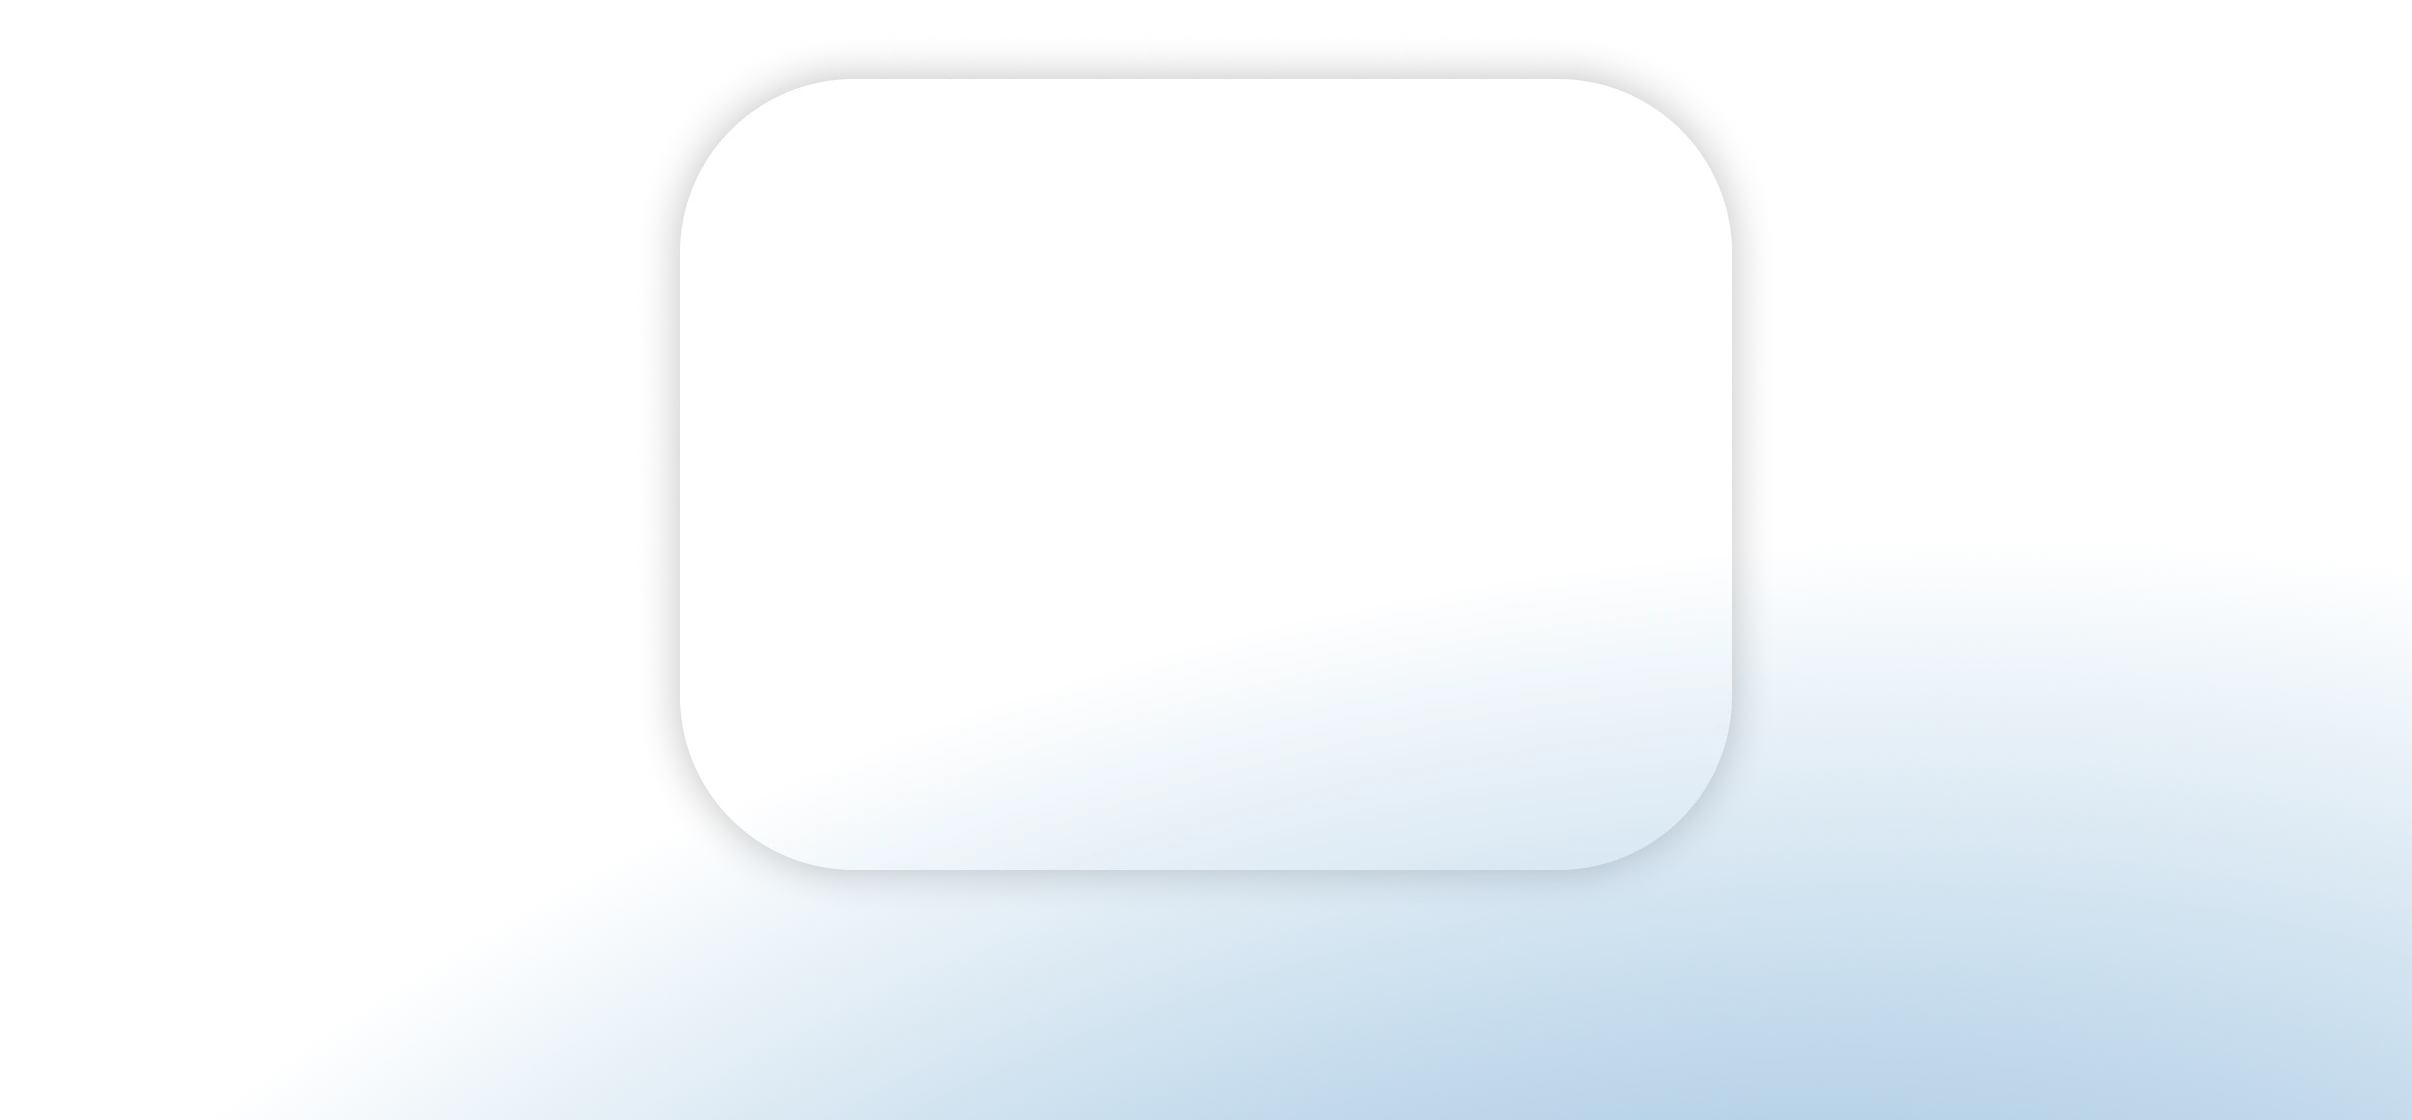
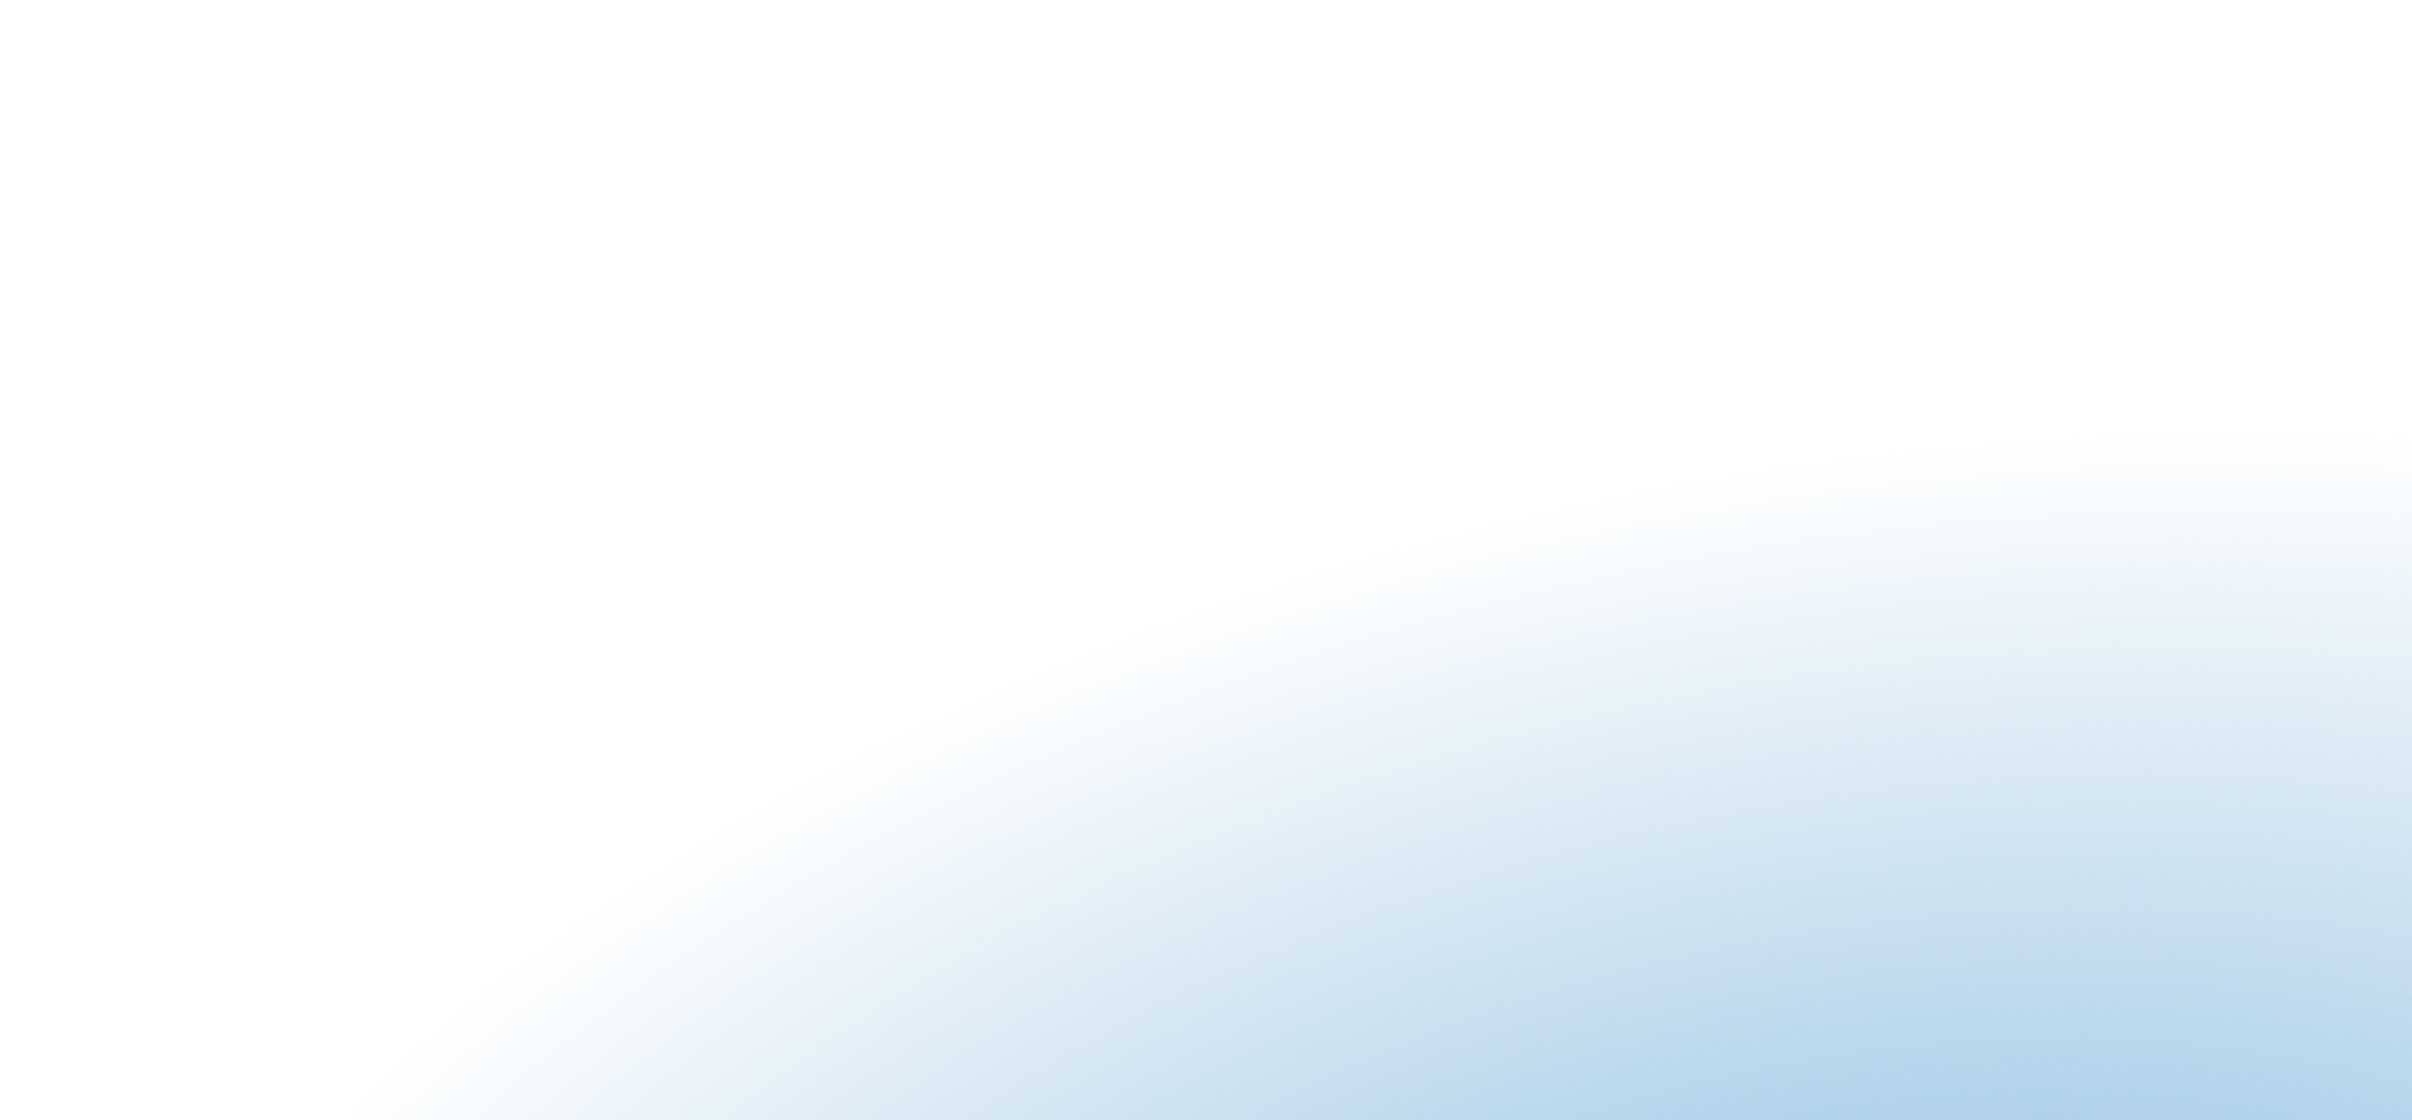
changed the theme, responsive opacy for images to make affordable to the view

Changed region(s): [[0.3109, 0.0625, 0.6841, 0.0938], [0.3109, 0.75, 0.4664, 0.7812], [0.2799, 0.7188, 0.3109, 0.75]]

diff --git a/src/App.jsx b/src/App.jsx
@@ -57,7 +57,6 @@ import IFimg_DEEB from "./Assets/IFimg_DEEB.webp"
 import IFimg_EM from "./Assets/IFimg_EM.webp"
 import IFimg_CC from "./Assets/IFimg_CC.webp"
 import IFimg_GGC from "./Assets/IFimg_GGC.webp"
-import IFimg_CAL from "./Assets/IFimg_CAL.webp"
 import IFimg_BBUI from "./Assets/IFimg_BBUI.webp"
 
 import IBimg_LP from "./Assets/IBimg_LP.webp"
@@ -71,7 +70,6 @@ import IBimg_DEEB from "./Assets/IBimg_DEEB.webp"
 import IBimg_CC from "./Assets/IBimg_CC.webp"
 import IBimg_EM from "./Assets/IBimg_EM.webp"
 import IBimg_GGC from "./Assets/IBimg_GGC.webp"
-import IBimg_CAL from "./Assets/IBimg_CAL.webp"
 
 import ThemeSwitch from "./Components/ThemeSwitch"
 import LanguageSwitch from "./Components/LanguageSwitch"
@@ -114,8 +112,8 @@ function App() {
       //-------------------------------------------------------------------------
       Projects_TAh1: "Projects 💻",
       Projects_01_Th4: "Programming:",
-      Projects_BBUI_Tp: "I'm using this interface created by my for all my projects.",
-      Projects_GGC_Tp: "Created with: JavaScript.",
+      Projects_BBUI_Tp: "I created this interface for use in my projects to organize information and elements into modular blocks. This intuitive and visually appealing design improves navigation and accessibility, allowing users to easily find information. My goal is to optimize web usability and aesthetics.",
+      Projects_GGC_Tp: "Guess countries <br> in this game.",
       Projects_EM_Tp: "Restaurant in <br> Wellington, NZ.",
       Projects_CC_Tp: "Created with: <br> Bento Box UI.",
 
@@ -200,8 +198,8 @@ function App() {
       //-------------------------------------------------------------------------
       Projects_TAh1: "Proyectos 💻",
       Projects_01_Th4: "Programación:",
-      Projects_BBUI_Tp: "Estoy usando esta interfaz creada por mi para todos mis proyectos.",
-      Projects_GGC_Tp: "Creado con: JavaScript.",
+      Projects_BBUI_Tp: "Creé esta interfaz para usar en mis proyectos para organizar información y elementos en bloques modulares. Este diseño intuitivo y visualmente atractivo mejora la navegación y la accesibilidad, permitiendo a los usuarios encontrar información fácilmente. Mi objetivo es optimizar la usabilidad y la estética web.",
+      Projects_GGC_Tp: "Adivina países <br> en este juego.",
       Projects_EM_Tp: "Restaurante en <br> Wellington, NZ.",
       Projects_CC_Tp: "Creado con: <br> Bento Box UI.",
 
@@ -288,11 +286,10 @@ function App() {
 
       <BentoGrid id="Projects" TAh1={lang[language].Projects_TAh1}>
       <Bento Bv="1" Bh="8" Bs="BE1" Th4={lang[language].Projects_01_Th4} Bbgc="transparent"/>
-      <Bento Bv="4" Bh="4" Bs="BL4" Th4="Bento Box UI" Limg={Limg_BBUI} IBimg={IBimg_BBUI} IFimg={IFimg_BBUI} Tp={lang[language].Projects_BBUI_Tp} Com={Button} Bt={lang[language].Visit}  Lurl="https://bentoboxui.vercel.app" />
-      <Bento Bv="2" Bh="4" Bs="BR1" Th4="Geo Game Challenge" Limg={Limg_GGC} IBimg={IBimg_GGC} IFimg={IFimg_GGC} Tp={lang[language].Projects_GGC_Tp} Com={Button} Bt={lang[language].Play} Lurl="https://geogamechallenge.netlify.app/"/>
+      <Bento Bv="4" Bh="4" Bs="BL1" Th4="Bento Box UI" Limg={Limg_BBUI} IBimg={IBimg_BBUI} IFimg={IFimg_BBUI} Tp={lang[language].Projects_BBUI_Tp} Com={Button} Bt={lang[language].Visit}  Lurl="https://bentoboxui.vercel.app" />
+      <Bento Bv="2" Bh="4" Bs="BR1" Th4="Geo Game" Limg={Limg_GGC} IBimg={IBimg_GGC} IFimg={IFimg_GGC} Tp={lang[language].Projects_GGC_Tp} Com={Button} Bt={lang[language].Play} Lurl="https://geogamechallenge.netlify.app/"/>
       <Bento Bv="2" Bh="4" Bs="BR1" Th4="Café Café" Limg={Limg_CC} IBimg={IBimg_CC} IFimg={IFimg_CC} Tp={lang[language].Projects_CC_Tp} Com={Button} Bt={lang[language].Visit} Lurl="https://cafe-cafe.vercel.app"/>
       <Bento Bv="2" Bh="4" Bs="BL1" Th4="El Matador" Limg={Limg_EM} IBimg={IBimg_EM} IFimg={IFimg_EM} Tp={lang[language].Projects_EM_Tp} Com={Button} Bt={lang[language].Visit} Lurl="https://el-matador-website.netlify.app/"/>
-      <Bento Bv="2" Bh="2" Bs="BL1" Th4="Calculator" IFimg={IFimg_CAL} IBimg={IBimg_CAL} Com={Button} Bt={lang[language].Try} Lurl="https://dark--atlanticocalculator.netlify.app/"/>
 
       <Bento Bv="1" Bh="8" Bs="BE1" Th4={lang[language].Projects_02_Th4} Bbgc="transparent"/>
       <Bento Bv="2" Bh="2" Bs="BR1" Th4="Hunterlands" IBimg={IBimg_HUN} IFimg={IFimg_HUN} Tp={lang[language].Projects_HUN_Tp} Com={Button} Bt="Behance" Lurl="https://www.behance.net/gallery/119558215/Game-project-Hunterlands" />
@@ -304,7 +301,7 @@ function App() {
       <Bento Bv="2" Bh="2" Bs="BL1" Th4="T-Shirt Designs" IFimg={IFimg_TDA1} IBimg={IBimg_TDL} Tp={lang[language].Projects_TDA1_Tp} Com={Button} Bt="Behance" Lurl="https://www.behance.net/gallery/119087517/ADIDAS-TSHIRT-DESIGNS-(argentine-soccer)" />
       <Bento Bv="2" Bh="2" Bs="BL1" Th4="T-Shirt Designs" IFimg={IFimg_TDA2} IBimg={IBimg_TDL} Tp={lang[language].Projects_TDA2_Tp} Com={Button} Bt="Behance" Lurl="https://www.behance.net/gallery/120843373/ADIDAS-2021-T-SHIRT-DESIGN-PROJECT-ARGENTINA-TEAMS" />
       <Bento Bv="2" Bh="2" Bs="BL1" Th4="T-Shirt Designs" IFimg={IFimg_TDC} IBimg={IBimg_TDL} Tp={lang[language].Projects_TDC_Tp} Com={Button} Bt="Behance" Lurl="https://www.behance.net/gallery/121012871/T-SHIRT-DESIGN-KELME-COLON-DE-SANTA-FE-2021" />
-      <Bento Bv="2" Bh="2" Bs="BR5" Th4="Deeb App" IFimg={IFimg_DEEB} IBimg={IBimg_DEEB} Tp={lang[language].Projects_DEEB_Tp} Com={Button} Bt="Behance" Lurl="https://www.behance.net/gallery/164341235/Deeb-App" />
+      <Bento Bv="2" Bh="2" Bs="BR2" Th4="Deeb App" IFimg={IFimg_DEEB} IBimg={IBimg_DEEB} Tp={lang[language].Projects_DEEB_Tp} Com={Button} Bt="Behance" Lurl="https://www.behance.net/gallery/164341235/Deeb-App" />
       </BentoGrid>
 
       <BentoGrid id="Software" TAh1={lang[language].Software_TAh1} TAp={lang[language].Software_TAp}>

diff --git a/src/Theme.css b/src/Theme.css
@@ -65,8 +65,8 @@ header > div > .Pulse {
 }
 
 .Article > .BentoGrid {
-  background-color: var(--transparent15dark);
-  border: 0px solid var(--transparent);
+  background-color: var(--white);
+  border: 1px solid var(--secondary);
 }
 
 #Presentation > .Statement > .Text > p {
@@ -76,6 +76,7 @@ header > div > .Pulse {
 
 .Bento > .ImageBack {
   opacity: 0.5;
+  @media (width <= 833px) {opacity: 0.3;}
 }
 
 .Bento,
@@ -139,15 +140,13 @@ header > div > .Pulse {
 .Button,
 .Switch input {
   background-color: var(--dark);
-  border: 2px solid var(--white);
   color: var(--white);
   opacity: 0.5;
 }
 
 .Button:hover,
 .Switch input:hover {
-  background-color: var(--transparent30dark);
-  color: var(--white);
+  
 }
 
 .Switch input:checked {
@@ -220,7 +219,7 @@ header > div > .Pulse {
   
   .BentoGrid {
     background-color: var(--black);
-    border: 0px solid var(--transparent);
+    border: 1px solid var(--primary);
   }
   
   #Presentation > .Statement > .Text > p {
